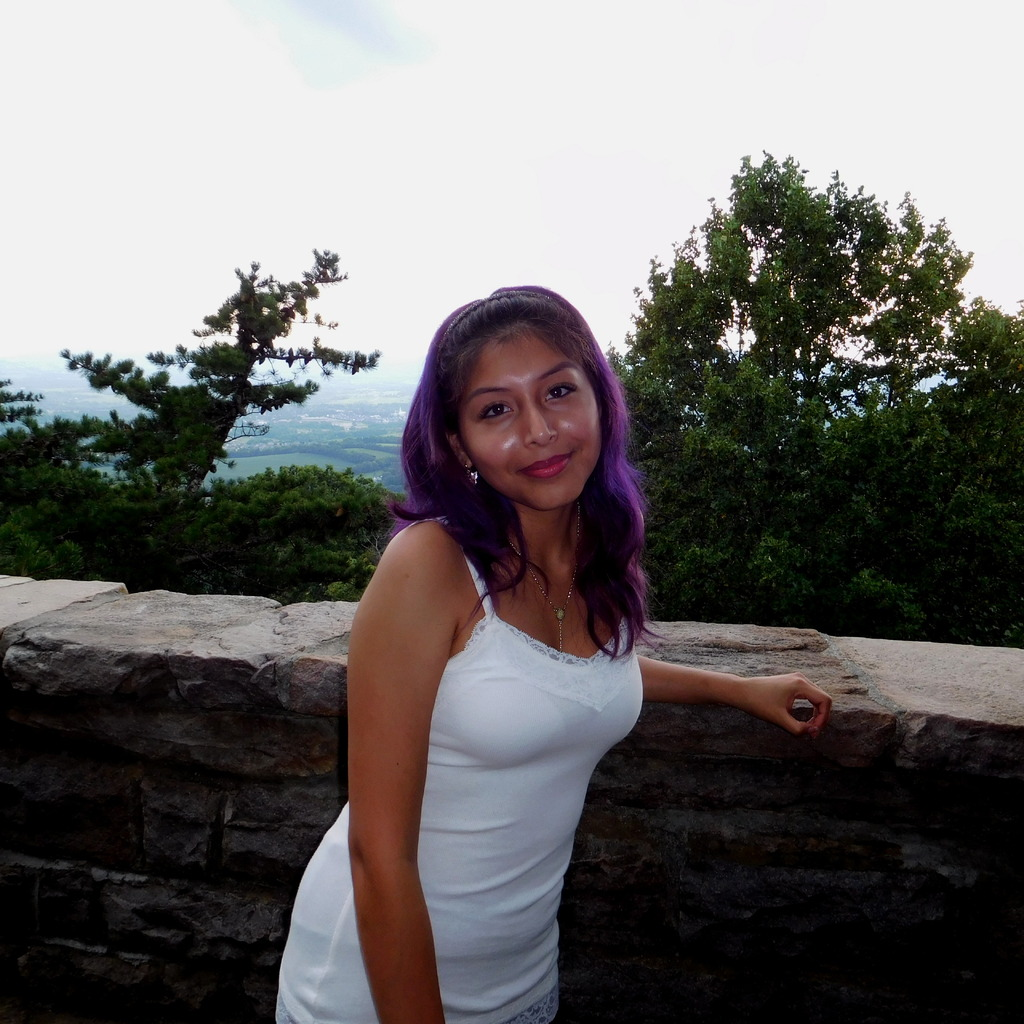
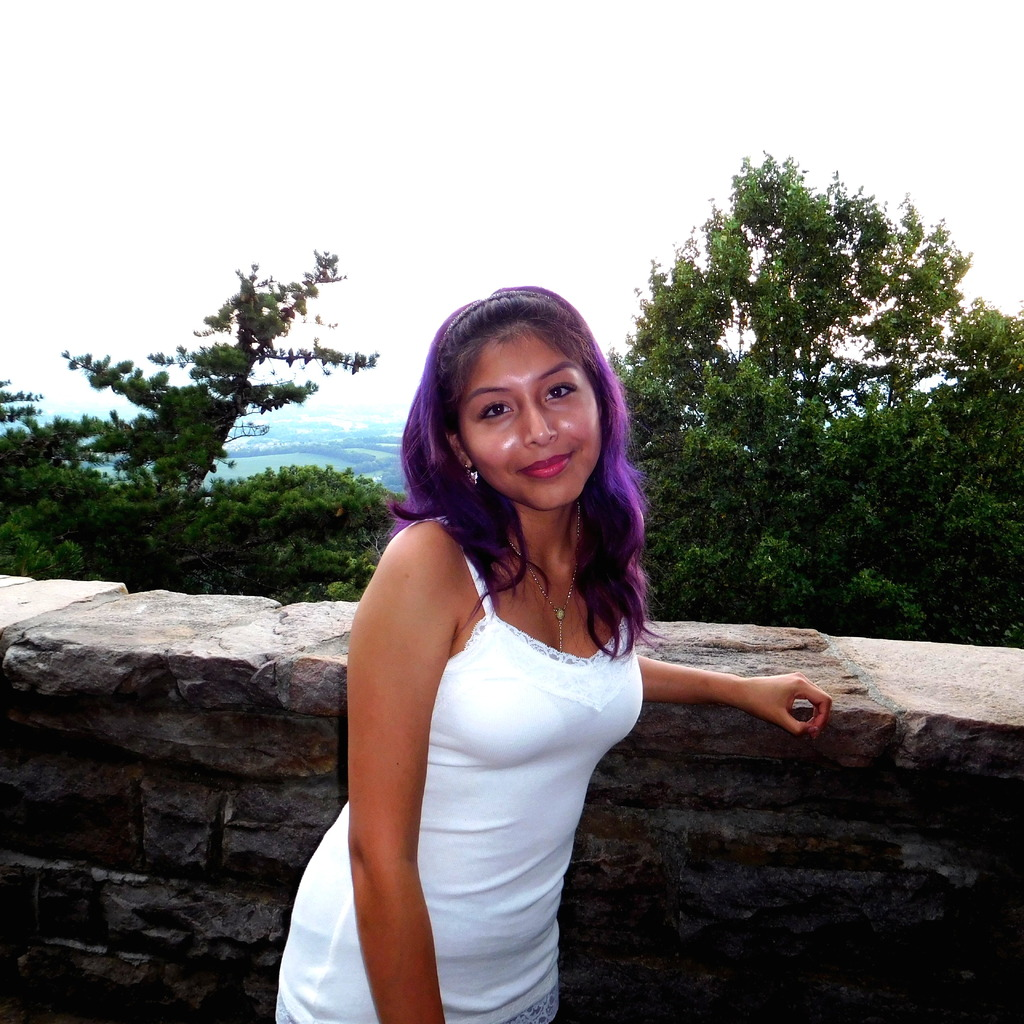
updated previous entry

Changed region(s): [[0.0, 0.1562, 1.0, 1.0], [0.25, 0.0, 0.4062, 0.0938]]

diff --git a/code/data.ts b/code/data.ts
@@ -27,15 +27,16 @@ const Data: Database = {
         images: {
             '08/13/26': {
                 name: 'Gambrill State Park',
-                id: ['DSCN5405', 'DSCN5416', 'DSCN5443'],
+                id: ['DSCN5416', 'DSCN5411', 'DSCN5443', 'DSCN5405'],
                 people: ['Brittany'],
                 custom_icons: {
                     'calender': {icon: 'heart.svg'},
                 },
                 gps: {
-                    'DSCN5405': [39.4619515, -77.4962949],
                     'DSCN5416': [39.4619515, -77.4962949],
+                    'DSCN5411': [39.4619515, -77.4962949],
                     'DSCN5443': [39.4156511, -77.4149637],
+                    'DSCN5405': [39.4619515, -77.4962949],
                 }
             },
             '08/11/26': {
